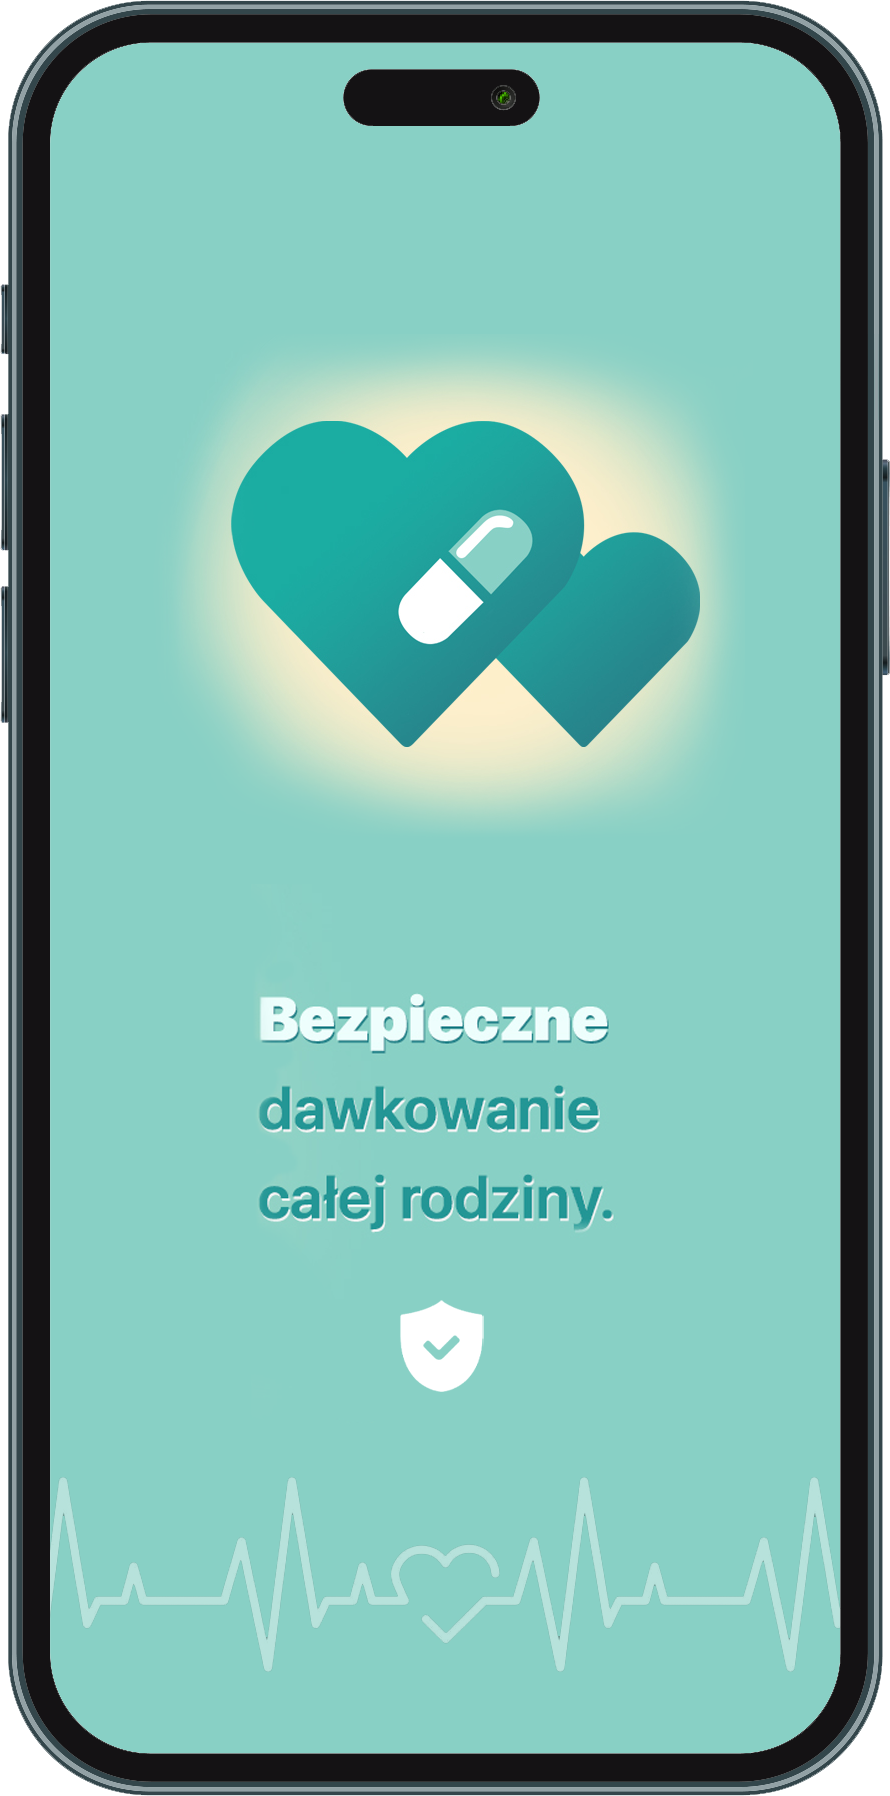
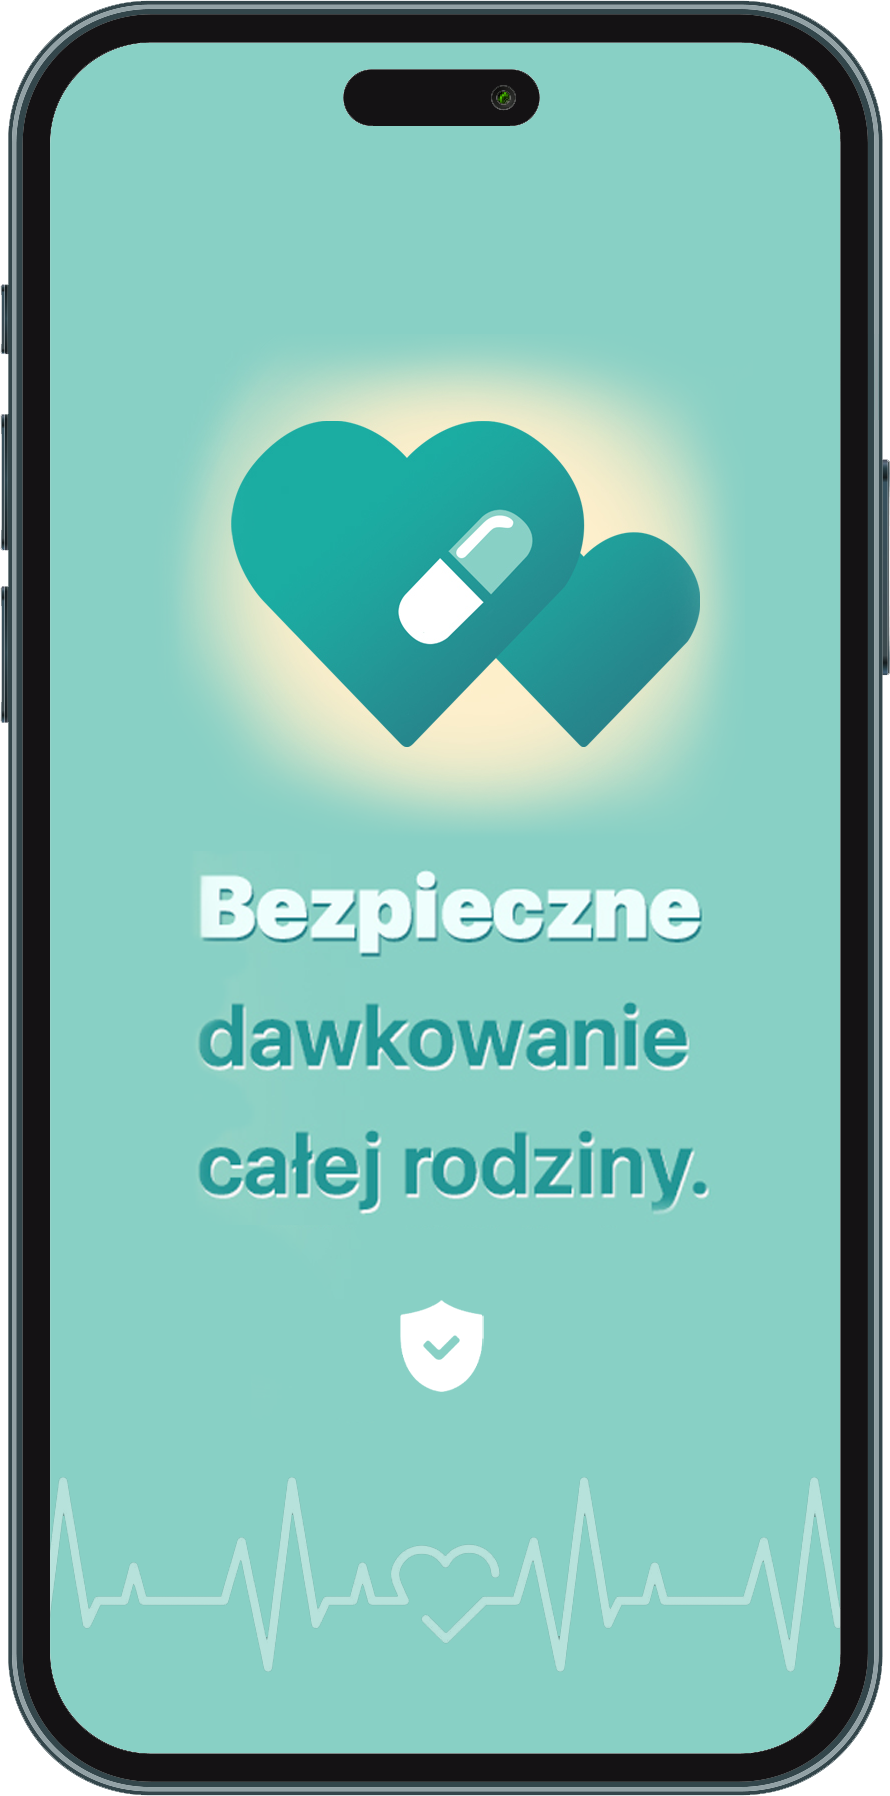
Fix hero CTA left alignment and update top placeholder

Changed region(s): [[0.2124, 0.4677, 0.7888, 0.686]]

diff --git a/styles.css b/styles.css
@@ -136,10 +136,13 @@ a {
     display: flex;
     flex-direction: column;
     align-items: flex-start;
+    justify-self: start;
+    width: 100%;
+    max-width: 720px;
+    text-align: left;
 }
 
 .hero-copy h1 {
-    max-width: 720px;
     margin-bottom: 24px;
     font-size: clamp(2.5rem, 4.7vw, 4.35rem);
     line-height: 0.98;
@@ -148,7 +151,7 @@ a {
 .store-pill {
     display: inline-flex;
     align-items: center;
-    justify-content: center;
+    justify-content: flex-start;
     align-self: flex-start;
     margin: 0;
     background: transparent;
@@ -533,6 +536,8 @@ a {
         display: flex;
         flex-direction: column;
         align-items: center;
+        justify-self: center;
+        text-align: center;
     }
 
     .feature-phones {
